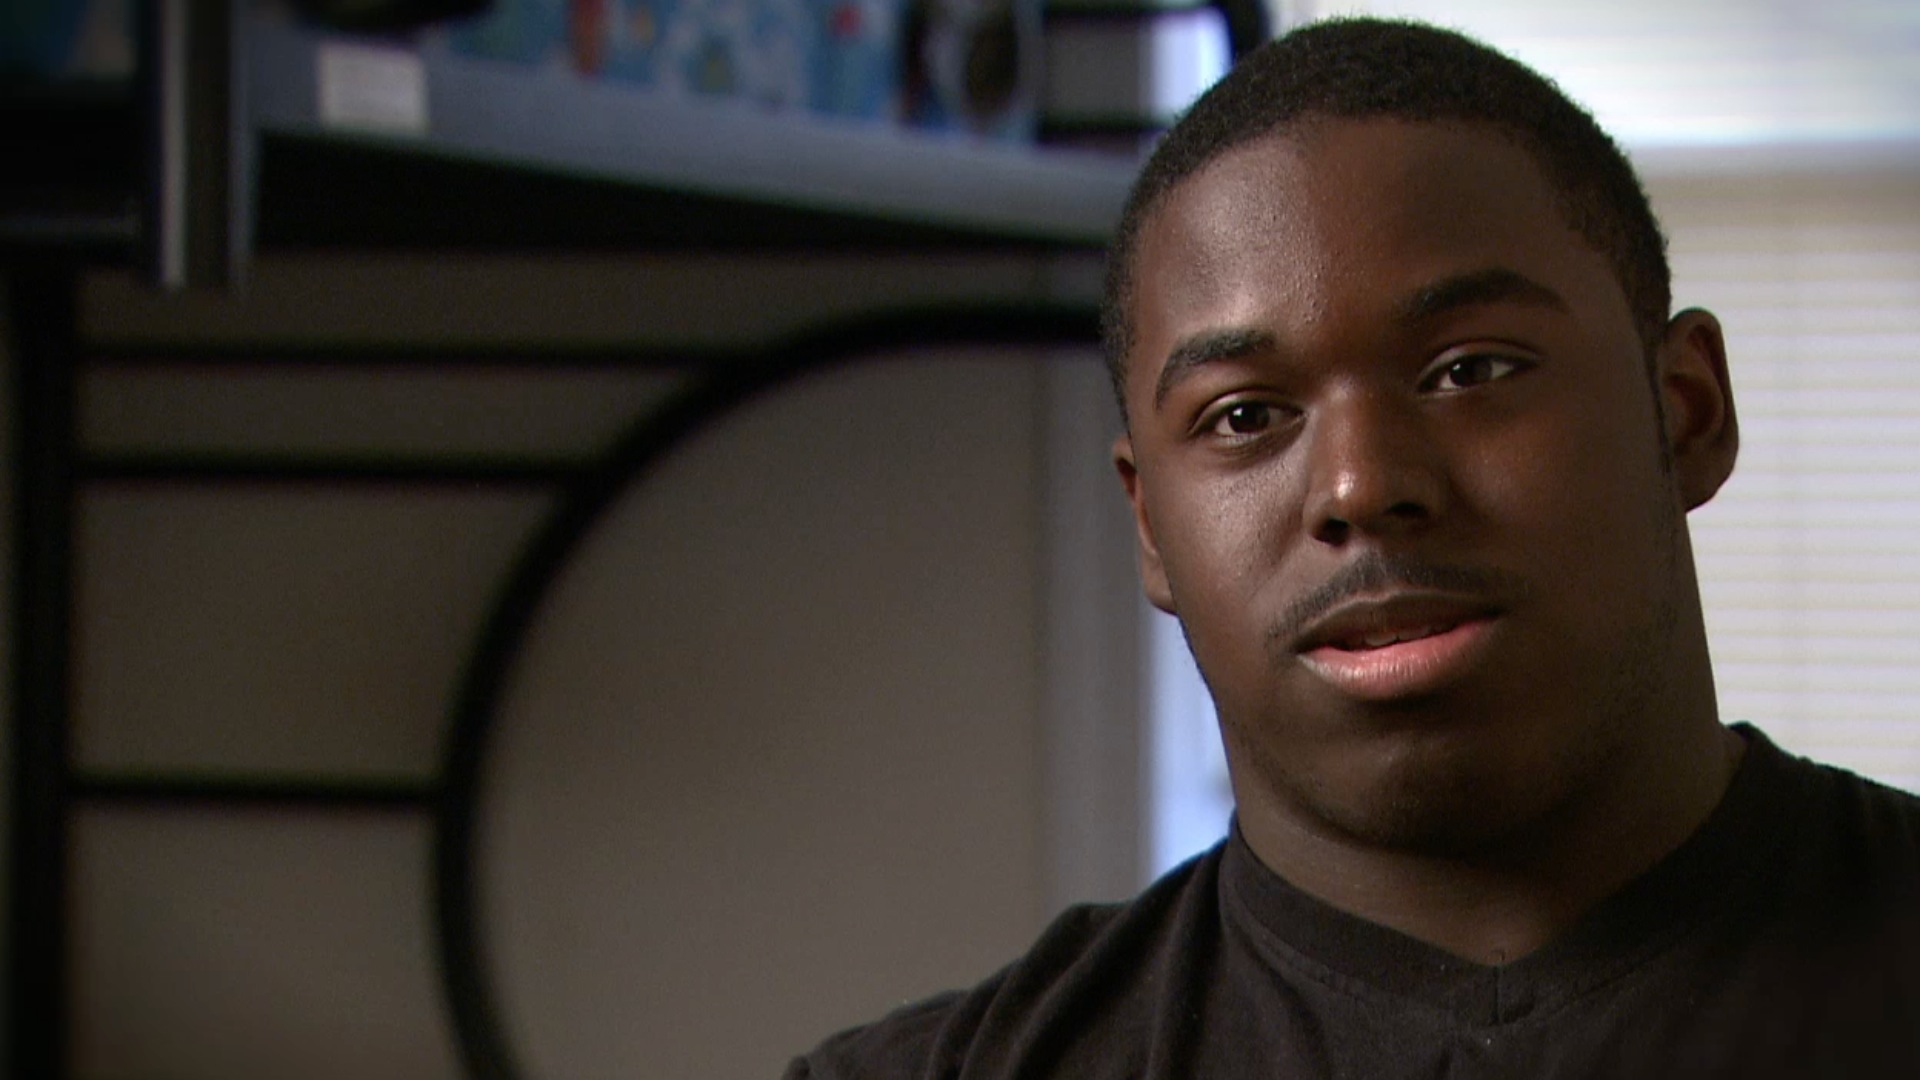
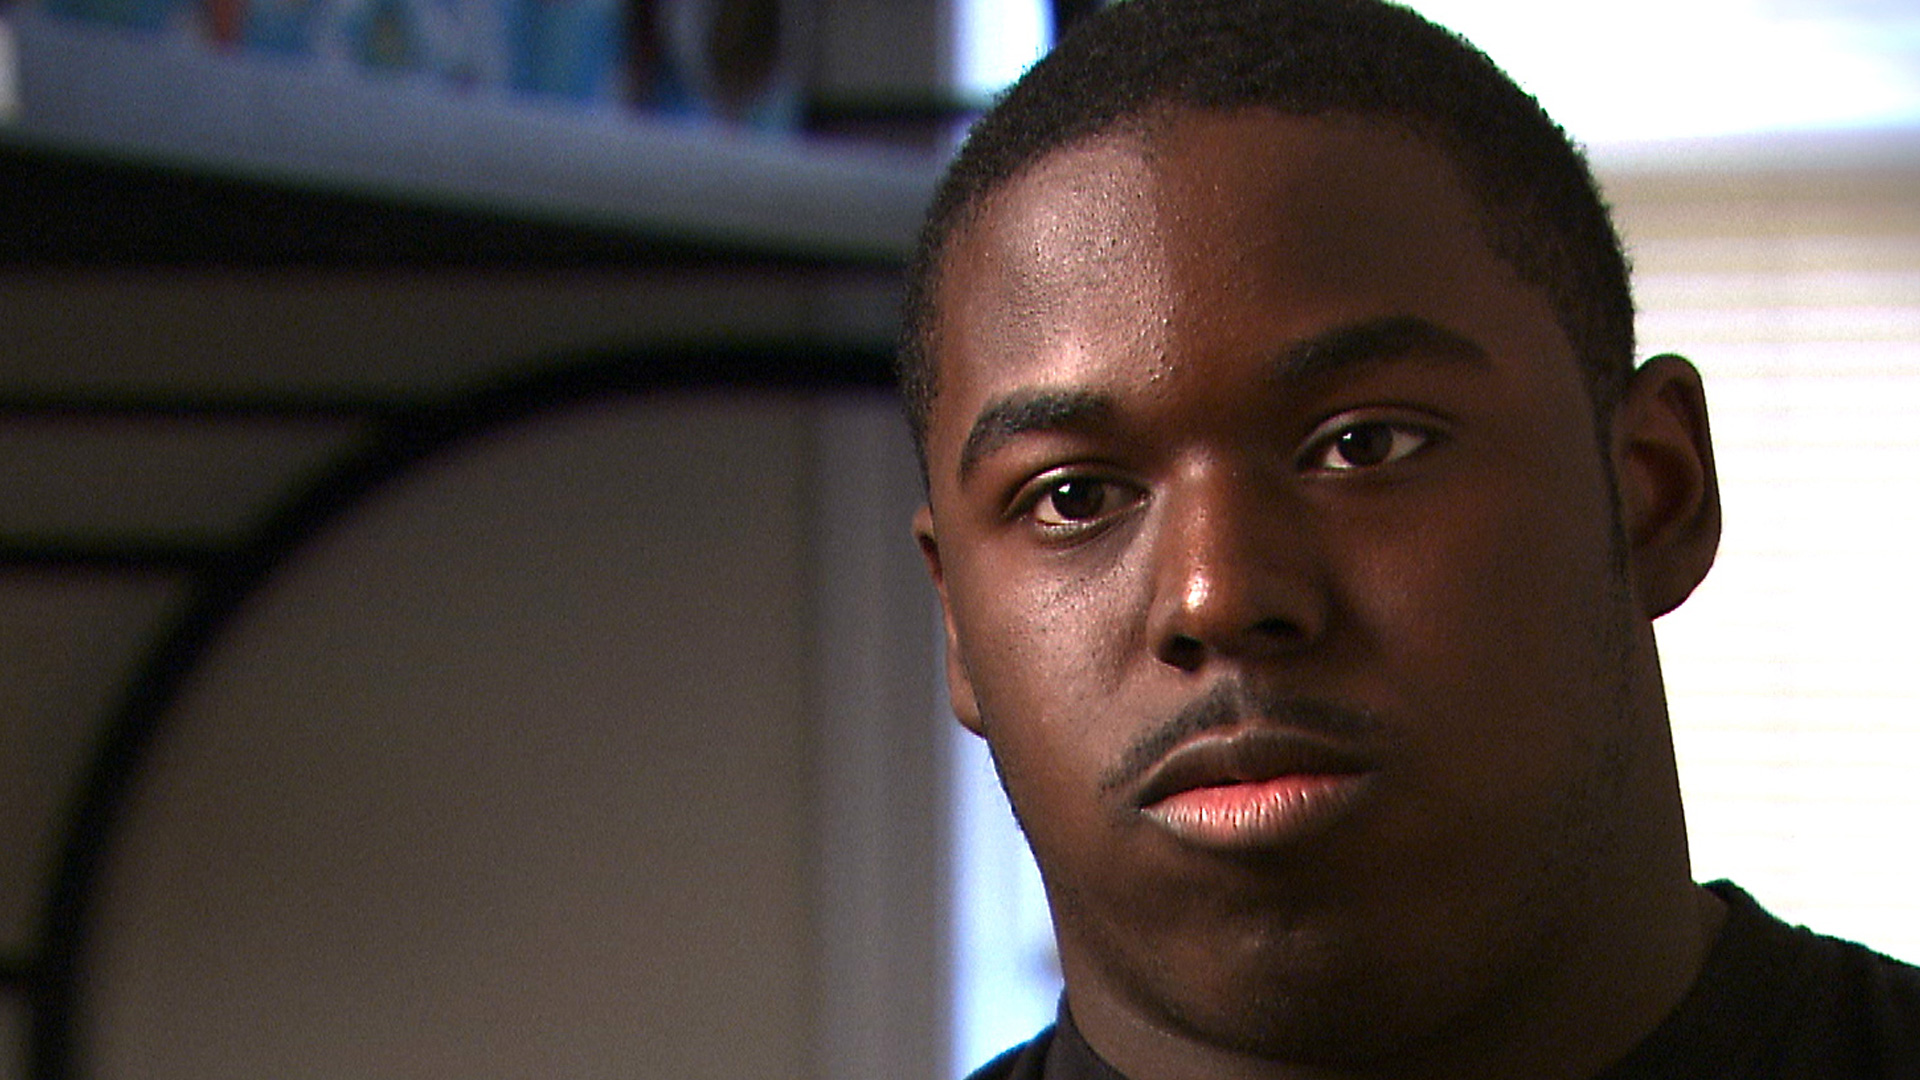
Changed out robert's image
Added more padding to .text-around-image-left.circle

diff --git a/css/main.css b/css/main.css
@@ -42,7 +42,6 @@
     border-radius: 50%;
     -webkit-shape-outside:circle();
     shape-outside:circle();
-  
     width: 250px;
 }
 
@@ -58,7 +57,7 @@
 }
 
   .text-around-image-left.circle{
-    margin-right: 20px;
+    margin-right: 30px;
   }
   .text-around-image-right.circle{
     margin-left: 20px;
